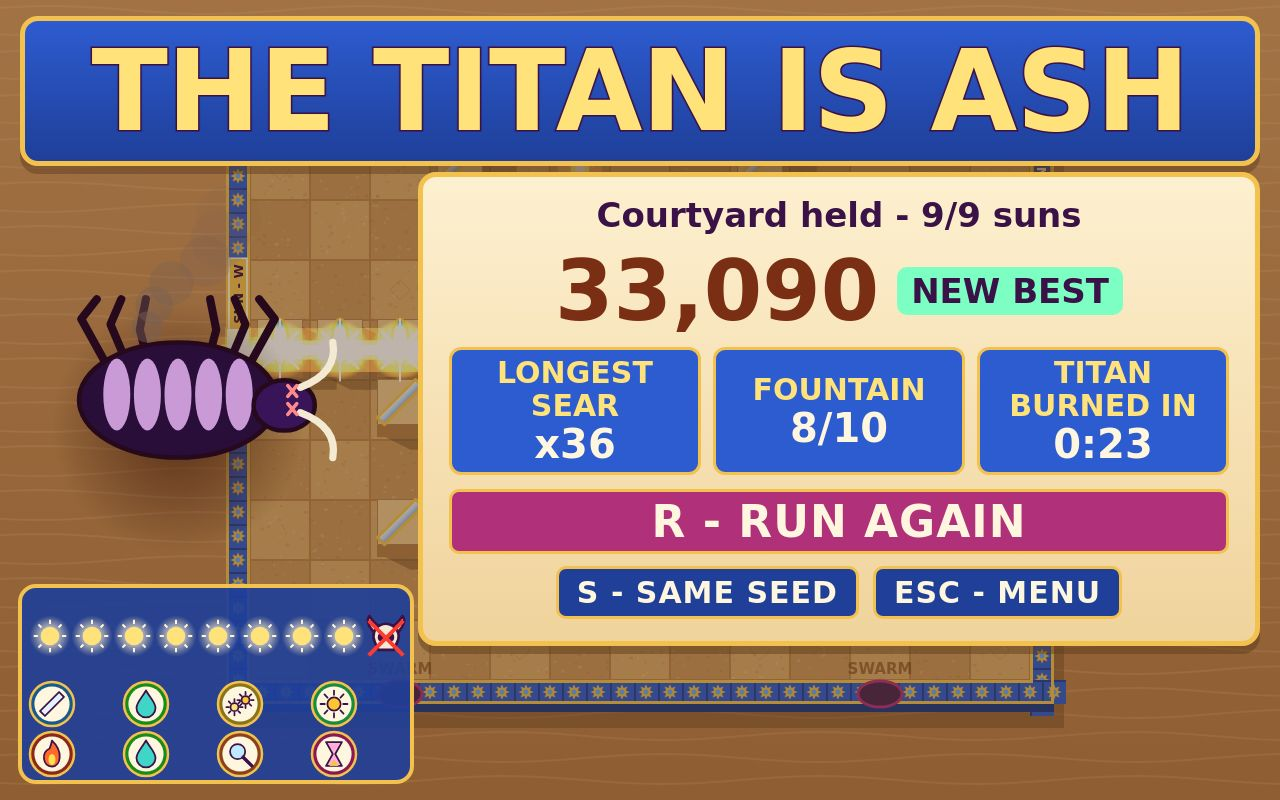
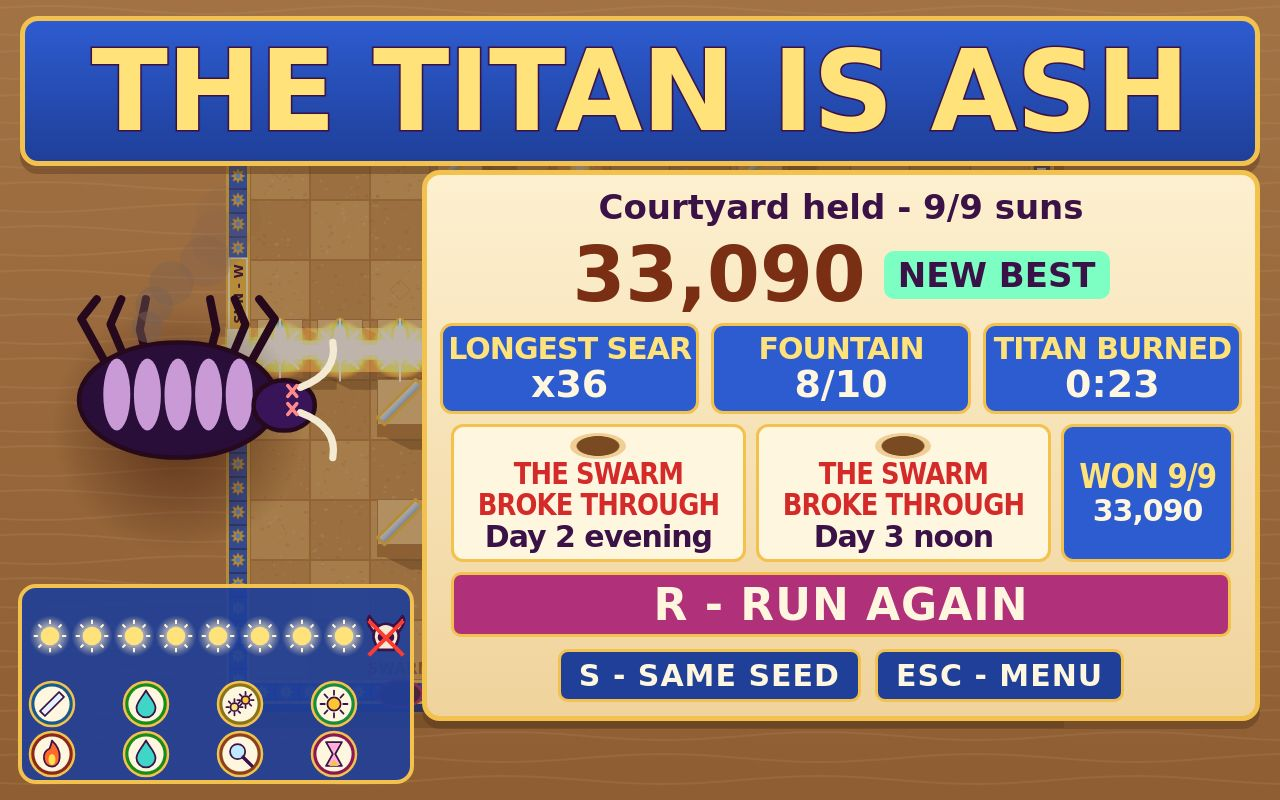
RUN HISTORY on the results (two real seeded losing runs staged first, red THE SWARM BROKE THROUGH cells, WON 9/9); save.js recordRun/loadHistory; real BEST on title and cover; truth check for BEST and history; menus showTitle/showDraft/showResults/restartRun

diff --git a/game/style.css b/game/style.css
@@ -67,17 +67,26 @@ button.big:hover { background: #cf3f93; }
 .results-head { position: absolute; left: 20px; right: 20px; top: 16px; height: 140px; display: flex; align-items: center; justify-content: center; overflow: hidden; background: linear-gradient(#2d5bd0, #1f3f99); border: 5px solid #f2c14e; border-radius: 18px; box-shadow: 0 8px 0 rgba(91, 58, 30, 0.45); }
 #results-title { margin: 0; width: max-content; white-space: nowrap; font: 900 112px system-ui, sans-serif; line-height: 1; letter-spacing: -1px; color: #ffe27a; -webkit-text-stroke: 3px #3b1247; paint-order: stroke fill; transform: scaleX(var(--fit, 1)); }
 .lost #results-title { color: #ff8a8a; }
-.sheet.results { position: absolute; right: 20px; top: 172px; width: 780px; margin: 0; padding: 18px 26px 22px; gap: 14px; background: linear-gradient(#fdf0d0, #f0d39c); border: 5px solid #f2c14e; box-shadow: 0 8px 0 rgba(91, 58, 30, 0.45); }
+.sheet.results { position: absolute; right: 20px; top: 170px; width: 780px; margin: 0; padding: 12px 24px 14px; gap: 10px; background: linear-gradient(#fdf0d0, #f0d39c); border: 5px solid #f2c14e; box-shadow: 0 8px 0 rgba(91, 58, 30, 0.45); }
 .lost .sheet.results { border-color: #ff8a8a; }
 .results .sub { margin: 0; font-size: 34px; font-weight: 900; color: #3b1247; text-shadow: none; }
-.score { font: 900 84px system-ui, sans-serif; line-height: 1; color: #7a2e14; display: flex; align-items: center; gap: 18px; }
+.score { font: 900 76px system-ui, sans-serif; line-height: 1; color: #7a2e14; display: flex; align-items: center; gap: 18px; }
 .score em { font: 900 34px system-ui, sans-serif; font-style: normal; color: #3b1247; background: #7dffc4; border-radius: 10px; padding: 4px 14px; -webkit-text-stroke: 0; }
 .stats { display: flex; gap: 12px; }
 .stats div { display: flex; flex-direction: column; align-items: center; justify-content: center; flex: 1; min-width: 220px; padding: 6px 10px; background: #2d5bd0; border: 3px solid #f2c14e; border-radius: 12px; }
-.stats small { font-size: 30px; font-weight: 900; color: #ffe27a; line-height: 1.1; }
-.stats b { font-size: 40px; font-weight: 900; color: #fff6df; line-height: 1.1; }
-.history { display: flex; gap: 12px; }
+.stats small { font-size: 30px; font-weight: 900; color: #ffe27a; line-height: 1.1; white-space: nowrap; letter-spacing: -1px; }
+.stats b { font-size: 38px; font-weight: 900; color: #fff6df; line-height: 1.05; }
+.history { display: flex; gap: 10px; width: 100%; }
 .history:empty { display: none; }
+.history .label { display: none; }
+.history div { flex: 1; display: flex; flex-direction: column; align-items: center; justify-content: center; padding: 6px 4px; border-radius: 12px; border: 3px solid #f2c14e; background: #fff6df; }
+.history b { display: inline-block; white-space: nowrap; font: 900 30px system-ui, sans-serif; line-height: 1.02; text-align: center; letter-spacing: -1px; transform: scaleX(0.86); }
+.history small { font: 800 30px system-ui, sans-serif; color: #3b1247; line-height: 1.1; white-space: nowrap; letter-spacing: -1px; }
+.history .fell b { color: #d42a2a; }
+.history .won { background: #2d5bd0; }
+.history .won b { color: #ffe27a; font-size: 34px; }
+.history .won small { color: #fff6df; }
+.history .dry { display: block; width: 56px; height: 26px; border-radius: 50%; background: radial-gradient(ellipse at center, #7a4a22 0 52%, #f0cf97 56% 78%, #a8723f 82%); }
 .buttons { display: flex; flex-wrap: wrap; justify-content: center; gap: 12px 14px; align-items: center; width: 100%; }
 .buttons button { font-size: 30px; padding: 6px 18px; white-space: nowrap; }
 .buttons button.big { flex-basis: 100%; font-size: 44px; padding: 4px 22px; }

diff --git a/game/src/main.js b/game/src/main.js
@@ -1,18 +1,18 @@
 // Boot and the main loop: a fixed 60 Hz sim step separate from rendering, the screen state
 // (title / how to play / play + pause), and turning queued input intents into sim orders.
 import { DIFFICULTIES, DT, PIECES, PIECE_ORDER } from './config.js';
-import { createRun, pieceCost, pieceUnlocked, stepSim } from './sim.js';
+import { createRun, pieceCost, pieceUnlocked, runSummary, stepSim } from './sim.js';
 import { pieceAt, placementCheck, setPiece } from './grid.js';
 import { beamModsFor, litLength, traceBeams } from './beams.js';
 import { freshSeed } from './rng.js';
 import { createInput, drainIntents } from './input.js';
-import { createMenus, renderDraft, renderOptions, renderResults, renderTitle, showScreen } from './ui/menus.js';
+import { createMenus, renderOptions, restartRun, showDraft, showResults, showScreen, showTitle } from './ui/menus.js';
 import { drawFrame } from './render/scene.js';
 import { createFx, fxFromEvent, updateFx } from './render/fx.js';
 import { hotbarHit } from './render/hud.js';
 import { VIEW_H, VIEW_W, cellAtPixel } from './render/layout.js';
 import { playSfx, playSizzle, setBeamHum, setVolume, unlockAudio, updateMusic } from './audio.js';
-import { loadBest, loadSettings, recordRun, saveSettings } from './save.js';
+import { loadBest, loadHistory, loadSettings, recordRun, saveSettings } from './save.js';
 import { createTitleDemo, stepTitleDemo } from './titledemo.js';
 import { installTestHook } from './testhook.js';
 
@@ -118,7 +118,7 @@ function handleUiAction(action, arg) {
     case 'difficulty':
       app.settings.difficulty = arg;
       saveSettings(app.settings);
-      renderTitle(loadBest, arg);
+      showTitle(menus, loadBest, arg);
       break;
     case 'howto': app.screen = 'howto'; break;
     case 'back': app.screen = 'title'; break;
@@ -160,8 +160,8 @@ function handleKeyInPlay(code) {
   }
   if (app.paused) return;
   if (over) {
-    if (code === 'KeyR') startRun(undefined, run.difficultyId);
-    else if (code === 'KeyS') startRun(run.seed, run.difficultyId);
+    if (code === 'KeyR') restartRun(input.intents, false);
+    else if (code === 'KeyS') restartRun(input.intents, true);
     return;
   }
   const digit = code.startsWith('Digit') ? Number(code.slice(5)) : 0;
@@ -221,7 +221,7 @@ function consumeEvents(run, withSound) {
     fxFromEvent(app.fx, ev);
     if (withSound && EVENT_SOUNDS[ev.type]) playSfx(EVENT_SOUNDS[ev.type]);
     if (ev.type === 'bite') app.shrineHurtAt = run.time;
-    if (ev.type === 'won' || ev.type === 'lost') app.isBest = recordRun(run.difficultyId, run.score, run.stats.wavesCleared);
+    if (ev.type === 'won' || ev.type === 'lost') app.isBest = recordRun(runSummary(run));
   }
   run.events.length = 0;
 }
@@ -299,10 +299,10 @@ function syncOverlays() {
   else if (app.paused) want = 'pause';
   else if (run.phase === 'draft') want = 'draft';
   else if ((run.phase === 'won' || run.phase === 'lost') && run.time - run.endedAt >= RESULTS_DELAY) want = 'results';
-  if (want === 'draft') renderDraft(menus, run);
-  if (want === 'results') renderResults(menus, run, app.isBest);
+  if (want === 'draft') showDraft(menus, run);
+  if (want === 'results') showResults(menus, run, app.isBest, loadHistory().slice(-3));
   if (want !== app.overlay) {
-    if (want === 'title') renderTitle(loadBest, app.settings.difficulty);
+    if (want === 'title') showTitle(menus, loadBest, app.settings.difficulty);
     showScreen(menus, want);
     app.overlay = want;
   }

diff --git a/game/src/ui/menus.js b/game/src/ui/menus.js
@@ -45,7 +45,7 @@ export function renderOptions(settings) {
 }
 
 /** Difficulty buttons with each difficulty's best score. */
-export function renderTitle(bestFor, selected) {
+export function showTitle(menus, bestFor, selected) {
   el('difficulty-picker').innerHTML = DIFFICULTY_ORDER.map((id) => {
     const best = bestFor(id);
     return `<button class="diff ${id === selected ? 'on' : ''}" data-action="difficulty" data-arg="${id}">
@@ -54,7 +54,7 @@ export function renderTitle(bestFor, selected) {
 }
 
 /** The draft: a huge "SUN MOVES WEST - PICK 1", three roundels (effect on hover), reroll, NEW chip. */
-export function renderDraft(menus, run) {
+export function showDraft(menus, run) {
   const key = `${run.waveIndex}|${run.offer.join(',')}|${run.quartz}`;
   if (key === menus.draftKey) return;
   menus.draftKey = key;
@@ -79,6 +79,13 @@ export function renderDraft(menus, run) {
   el('draft-new').textContent = unlocked ? `NEW GLASS: ${PIECES[unlocked].name} [${PIECE_ORDER.indexOf(unlocked) + 1}]` : newFoe ? `NEW: ${ENEMIES[newFoe.type].name}` : '';
 }
 
+/** Break a title at the space nearest its middle (for narrow history cells). */
+function twoLines(title) {
+  const words = title.split(' ');
+  const half = Math.ceil(words.length / 2);
+  return `${words.slice(0, half).join(' ')}<br>${words.slice(half).join(' ')}`;
+}
+
 function clock(seconds) {
   const s = Math.max(0, Math.round(seconds));
   return `${Math.floor(s / 60)}:${String(s % 60).padStart(2, '0')}`;
@@ -88,8 +95,8 @@ function clock(seconds) {
  * Results: THE TITAN IS ASH (or THE SWARM BROKE THROUGH) across the top, then score with NEW BEST,
  * one-line tiles and the restart keys; the canvas draws the Titan's carcass beside it.
  */
-export function renderResults(menus, run, isBest) {
-  const key = `${run.seed}|${run.phase}|${run.score}`;
+export function showResults(menus, run, isBest, history) {
+  const key = `${run.seed}|${run.phase}|${run.score}|${history.length}`;
   if (key === menus.resultsKey) return;
   menus.resultsKey = key;
   const won = run.phase === 'won';
@@ -104,7 +111,21 @@ export function renderResults(menus, run, isBest) {
   const tiles = [
     [`LONGEST ${NAMES.combo}`, `x${run.chain.best}`],
     [NAMES.fountainShort, `${run.shrineHp}/${run.shrineMax}`],
-    won && run.stats.titanSeconds !== undefined ? ['TITAN BURNED IN', clock(run.stats.titanSeconds)] : ['BEETLES BURNED', run.stats.kills],
+    won && run.stats.titanSeconds !== undefined ? ['TITAN BURNED', clock(run.stats.titanSeconds)] : ['BEETLES', run.stats.kills],
   ];
   el('results-stats').innerHTML = tiles.map(([k, v]) => `<div><small>${k}</small><b>${v}</b></div>`).join('');
+  el('results-history').innerHTML =
+    '<span class="label">RUN HISTORY</span>' +
+    history
+      .map((h) =>
+        h.outcome === 'won'
+          ? `<div class="won"><b>WON ${h.suns}/${WAVE_COUNT}</b><small>${h.score.toLocaleString('en-US')}</small></div>`
+          : `<div class="fell"><i class="dry"></i><b>${twoLines(RESULT_LOSE_TITLE)}</b><small>Day ${h.day} ${h.phase.toLowerCase()}</small></div>`,
+      )
+      .join('');
+}
+
+/** R / S on the results screen (and the RUN AGAIN / SAME SEED buttons): queue a fresh run. */
+export function restartRun(intents, sameSeed) {
+  intents.push({ kind: 'ui', action: sameSeed ? 'sameSeed' : 'runAgain', arg: null });
 }

diff --git a/game/src/save.js b/game/src/save.js
@@ -1,4 +1,5 @@
-// Persistence in localStorage: best score and furthest wave per difficulty, and settings.
+// Persistence in localStorage: best score and furthest sun per difficulty, the run history shown
+// on the results screen, and settings.
 const KEY = 'sunwright.save.v1';
 
 function readSave() {
@@ -21,15 +22,26 @@ export function loadBest(difficultyId) {
   return readSave().best?.[difficultyId] ?? { score: 0, waves: 0 };
 }
 
-/** Record a finished run; returns true when it is a new best score. */
-export function recordRun(difficultyId, score, waves) {
+const HISTORY_KEEP = 10;
+
+/**
+ * Record a finished run (summary: { difficultyId, outcome, score, suns, day, phase }) in the
+ * history and the per-difficulty best; returns true when it is a new best score.
+ */
+export function recordRun(summary) {
   const data = readSave();
   data.best ??= {};
-  const old = data.best[difficultyId] ?? { score: 0, waves: 0 };
-  const isBest = score > old.score;
-  data.best[difficultyId] = { score: Math.max(old.score, score), waves: Math.max(old.waves, waves) };
+  const old = data.best[summary.difficultyId] ?? { score: 0, waves: 0 };
+  const isBest = summary.score > old.score;
+  data.best[summary.difficultyId] = { score: Math.max(old.score, summary.score), waves: Math.max(old.waves, summary.suns) };
+  data.history = [...(data.history ?? []), summary].slice(-HISTORY_KEEP);
   writeSave(data);
   return isBest;
+}
+
+/** Finished runs, oldest first. */
+export function loadHistory() {
+  return readSave().history ?? [];
 }
 
 export function loadSettings() {

diff --git a/game/src/sim.js b/game/src/sim.js
@@ -219,6 +219,11 @@ export function stepSim(run, orders) {
   announceEvents(run, run.events.slice(Math.min(first, run.events.length)));
 }
 
+/** What the save keeps of a finished run (also shown in the results' RUN HISTORY). */
+export function runSummary(run) {
+  return { difficultyId: run.difficultyId, outcome: run.phase, score: run.score, suns: run.stats.wavesCleared, day: run.aperture.day, phase: run.aperture.phase.name };
+}
+
 /** Waves still to spawn plus beetles on the board, for the HUD's remaining bar. */
 export function enemiesRemaining(run) {
   return run.schedule.length - run.spawnCursor + run.enemies.length;

diff --git a/game/src/testhook.js b/game/src/testhook.js
@@ -4,6 +4,7 @@
 import { WAVE_COUNT } from './config.js';
 import { enemiesRemaining } from './sim.js';
 import { currentBanner } from './announce.js';
+import { loadHistory } from './save.js';
 
 export function installTestHook(app, api) {
   app.manual = true;
@@ -67,6 +68,7 @@ export function installTestHook(app, api) {
         log: run.log.join(' | '),
         sunsHeld: run.stats.wavesCleared,
         best: app.ui.best,
+        history: loadHistory().slice(-3),
         tick: run.tick,
       };
     },

diff --git a/NOTES.md b/NOTES.md
@@ -70,6 +70,12 @@
   track with the skull crossed out, charm badges; sepia dim at noon (sunrise wash removed).
   tools/thumbs.py writes the judge-scale contact sheet (768 cover + 252 px cells).
 
+- RUN HISTORY: save.js recordRun(summary) + loadHistory(); results strip of the last 3 runs (losses
+  in red with RESULT_LOSE_TITLE + a dry-basin icon + day/phase; WON 9/9 with score). shots.mjs first
+  replays two real losing runs (seeds 3002, 3004: Day 2 evening, Day 3 noon) so the history and
+  BEST (18,260 on the cover) are real; check-shot-truth asserts BEST and the history against
+  headless replays. menus.js exports showTitle / showDraft / showResults / restartRun.
+
 ## Next
 - M3 feel (rest): hit-stop-like pop on SEAR steps, fountain pip crack, quartz counter pulse,
   colour-blind beam patterns (option), How to play illustrated panels.
